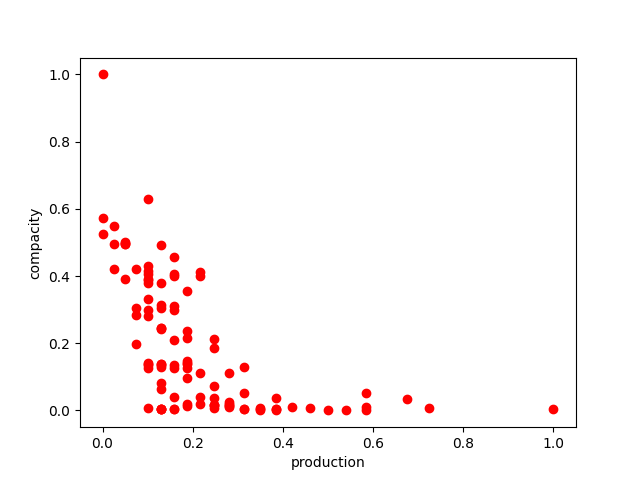
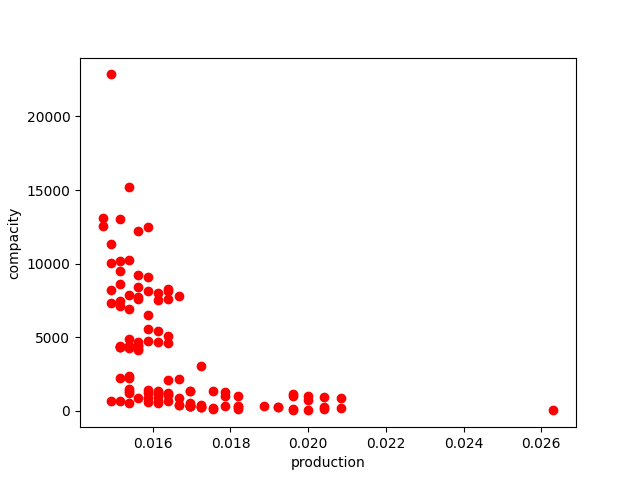
solution ultime trop fort j'ai gagné

diff --git a/main.py b/main.py
@@ -125,8 +125,8 @@ def plot_solution(solution):
     plt.imshow(bought_plot, cmap='gray', interpolation='nearest')
 
 
-def plot_pareto(population, populatio=None):
-    population_avec_score_normalise = population_with_normalized_score(
+def plot_pareto(population):
+    population_avec_score_normalise = population_with_separate_score(
         population)
     pareto_frontier, population_avec_score_normalise = get_pareto_frontier(
         population_avec_score_normalise)
@@ -150,18 +150,19 @@ def plot_pareto(population, populatio=None):
     fig.canvas.manager.set_window_title("Pareto Graph")
 
     # ax.scatter([0], [0], [0], c='g', picker=True, pickradius=5)
-    ax.scatter([s[1] for s in population_avec_score_normalise], [s[2] for s in population_avec_score_normalise],
-               [s[3] for s in population_avec_score_normalise], c='b', picker=True, pickradius=0.1)
+
+   #ax.scatter([s[1] for s in population_avec_score_normalise], [s[2] for s in population_avec_score_normalise],
+               #[s[3] for s in population_avec_score_normalise], c='b', picker=True, pickradius=0.1)
     ax.scatter([s[1] for s in pareto_frontier], [s[2] for s in pareto_frontier], [s[3] for s in pareto_frontier], c='r',
                picker=True, pickradius=0.1)
     # ax.legend()
     ax.set_xlabel("Compacité")
-    ax.set_xlim(0, 1)
+    ax.set_xlim(min(liste_compacite), max(liste_compacite))
     ax.set_ylabel("Proximité")
-    ax.set_ylim(0, 1)
+    ax.set_ylim(min(liste_proximite), max(liste_proximite))
     ax.set_zlabel("Production")
-    ax.set_zlim(0, 1)
-    fig.canvas.mpl_connect('pick_event', lambda event: onpick(event, population_avec_score_normalise))
+    ax.set_zlim(min(liste_production), max(liste_production))
+    fig.canvas.mpl_connect('pick_event', lambda event: onpick(event, pareto_frontier))
 
     fig, ax = plt.subplots()
     ax.plot(best_scores)
@@ -469,7 +470,7 @@ def population_with_separate_score(population):
     generation_avec_score = []
     for i in range(len(population)):
         generation_avec_score.append(
-            (population[i], score_separe(population[i])))
+            (population[i], score_separe(population[i])[0], score_separe(population[i])[1], score_separe(population[i])[2]))
     return generation_avec_score
 
 
@@ -478,23 +479,37 @@ def population_with_normalized_score(population):
     """
     generation_avec_score = population_with_separate_score(population)
 
-    # Trouver l'amplitude maximale pour chaque critère
-    max_compacite = max(generation_avec_score, key=lambda x: x[1][0])[1][0]
-    min_compacite = min(generation_avec_score, key=lambda x: x[1][0])[1][0]
-    max_proximite = max(generation_avec_score, key=lambda x: x[1][1])[1][1]
-    min_proximite = min(generation_avec_score, key=lambda x: x[1][1])[1][1]
-    max_production = max(generation_avec_score, key=lambda x: x[1][2])[1][2]
-    min_production = min(generation_avec_score, key=lambda x: x[1][2])[1][2]
+    max_compacite = max(generation_avec_score, key=lambda x: x[1])[1]
+    min_compacite = min(generation_avec_score, key=lambda x: x[1])[1]
+    max_proximite = max(generation_avec_score, key=lambda x: x[2])[2]
+    min_proximite = min(generation_avec_score, key=lambda x: x[2])[2]
+    max_production = max(generation_avec_score, key=lambda x: x[3])[3]
+    min_production = min(generation_avec_score, key=lambda x: x[3])[3]
+
+
+
+
+
+
+
+    """
+        # Trouver l'amplitude maximale pour chaque critère
+        max_compacite = max(generation_avec_score, key=lambda x: x[1][0])[1][0]
+        min_compacite = min(generation_avec_score, key=lambda x: x[1][0])[1][0]
+        max_proximite = max(generation_avec_score, key=lambda x: x[1][1])[1][1]
+        min_proximite = min(generation_avec_score, key=lambda x: x[1][1])[1][1]
+        max_production = max(generation_avec_score, key=lambda x: x[1][2])[1][2]
+        min_production = min(generation_avec_score, key=lambda x: x[1][2])[1][2]"""
 
     # Normaliser les scores pour chaque critère
     population_with_normalized_score = []
     for i in range(len(generation_avec_score)):
         population_with_normalized_score.append((generation_avec_score[i][0],
-                                                 (generation_avec_score[i][1][0] - min_compacite) / (
+                                                 (generation_avec_score[i][1] - min_compacite) / (
                                                          max_compacite - min_compacite),
-                                                 (generation_avec_score[i][1][1] - min_proximite) / (
+                                                 (generation_avec_score[i][2] - min_proximite) / (
                                                          max_proximite - min_proximite),
-                                                 (generation_avec_score[i][1][2] - min_production) / (
+                                                 (generation_avec_score[i][3] - min_production) / (
                                                          max_production - min_production)))
 
     return population_with_normalized_score
@@ -601,7 +616,7 @@ if __name__ == "__main__":
     """2: INITIAL POPULATION """
 
     # Generate initial population randomly ⇾ cover as much as possible the solution space
-    population_amelioree = genetic_algorithm(500, 300)
+    population_amelioree = genetic_algorithm(500, 500)
 
     # Determine the dominant solutions
     # Plot the frontier and generate csv files
